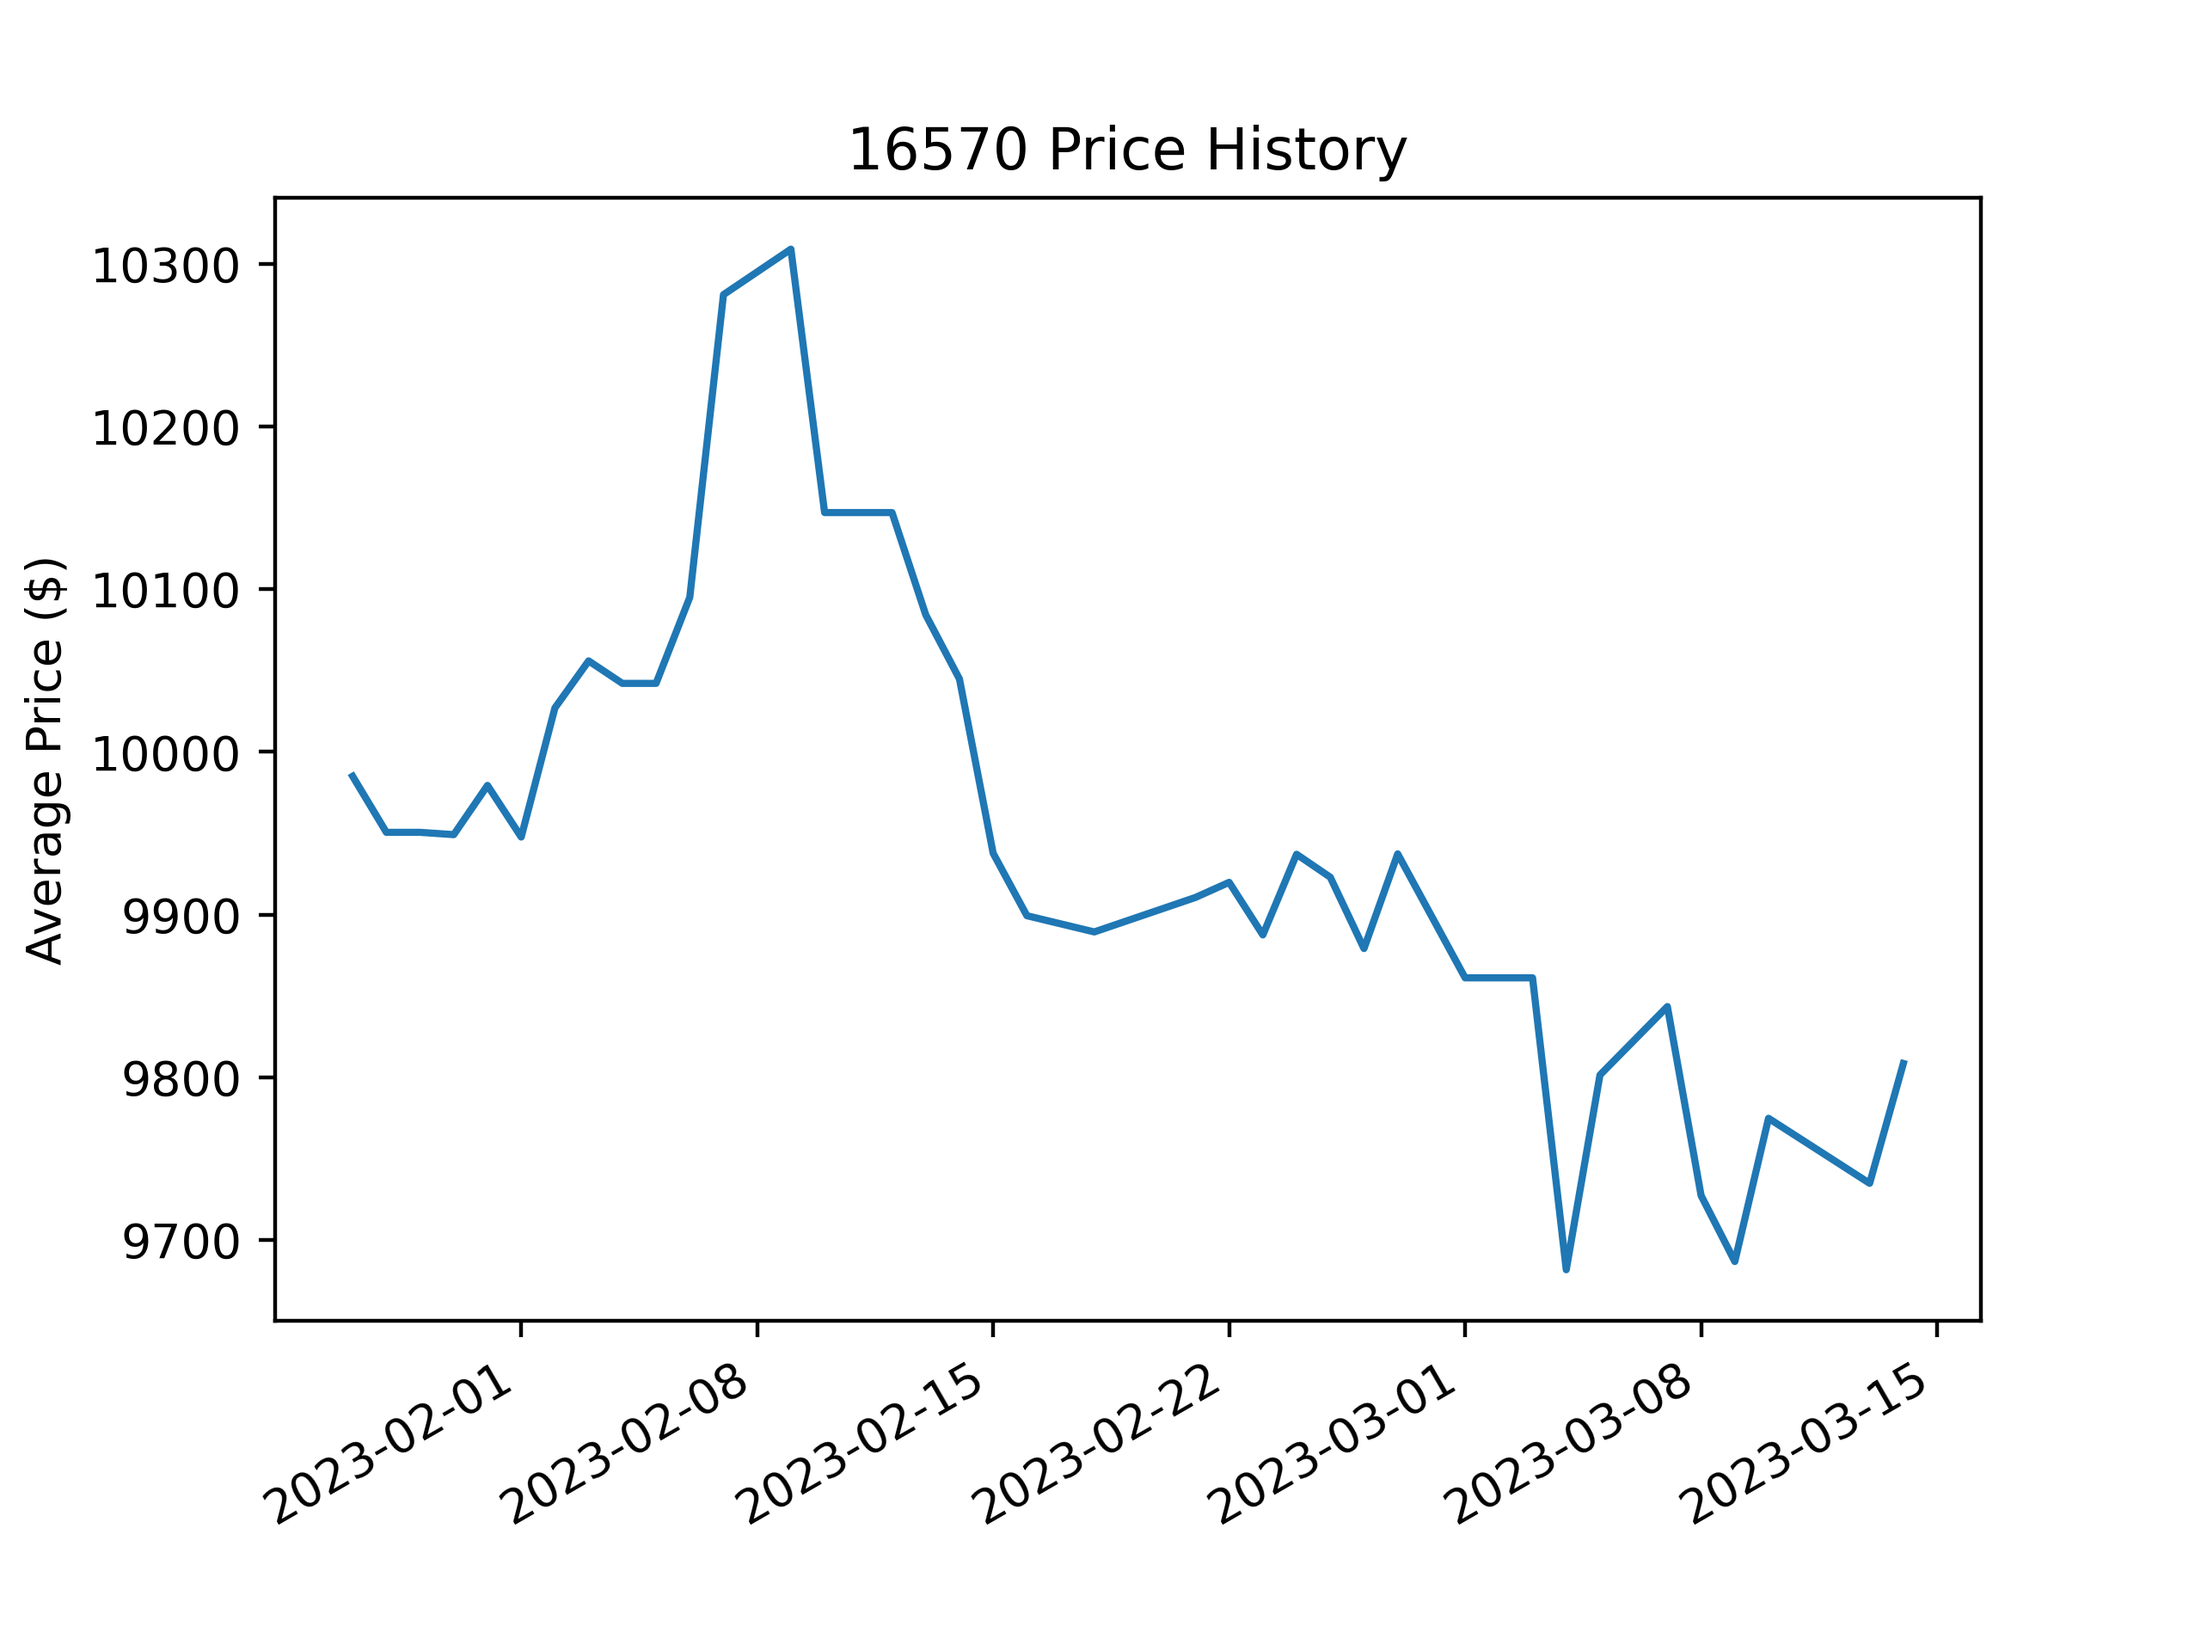
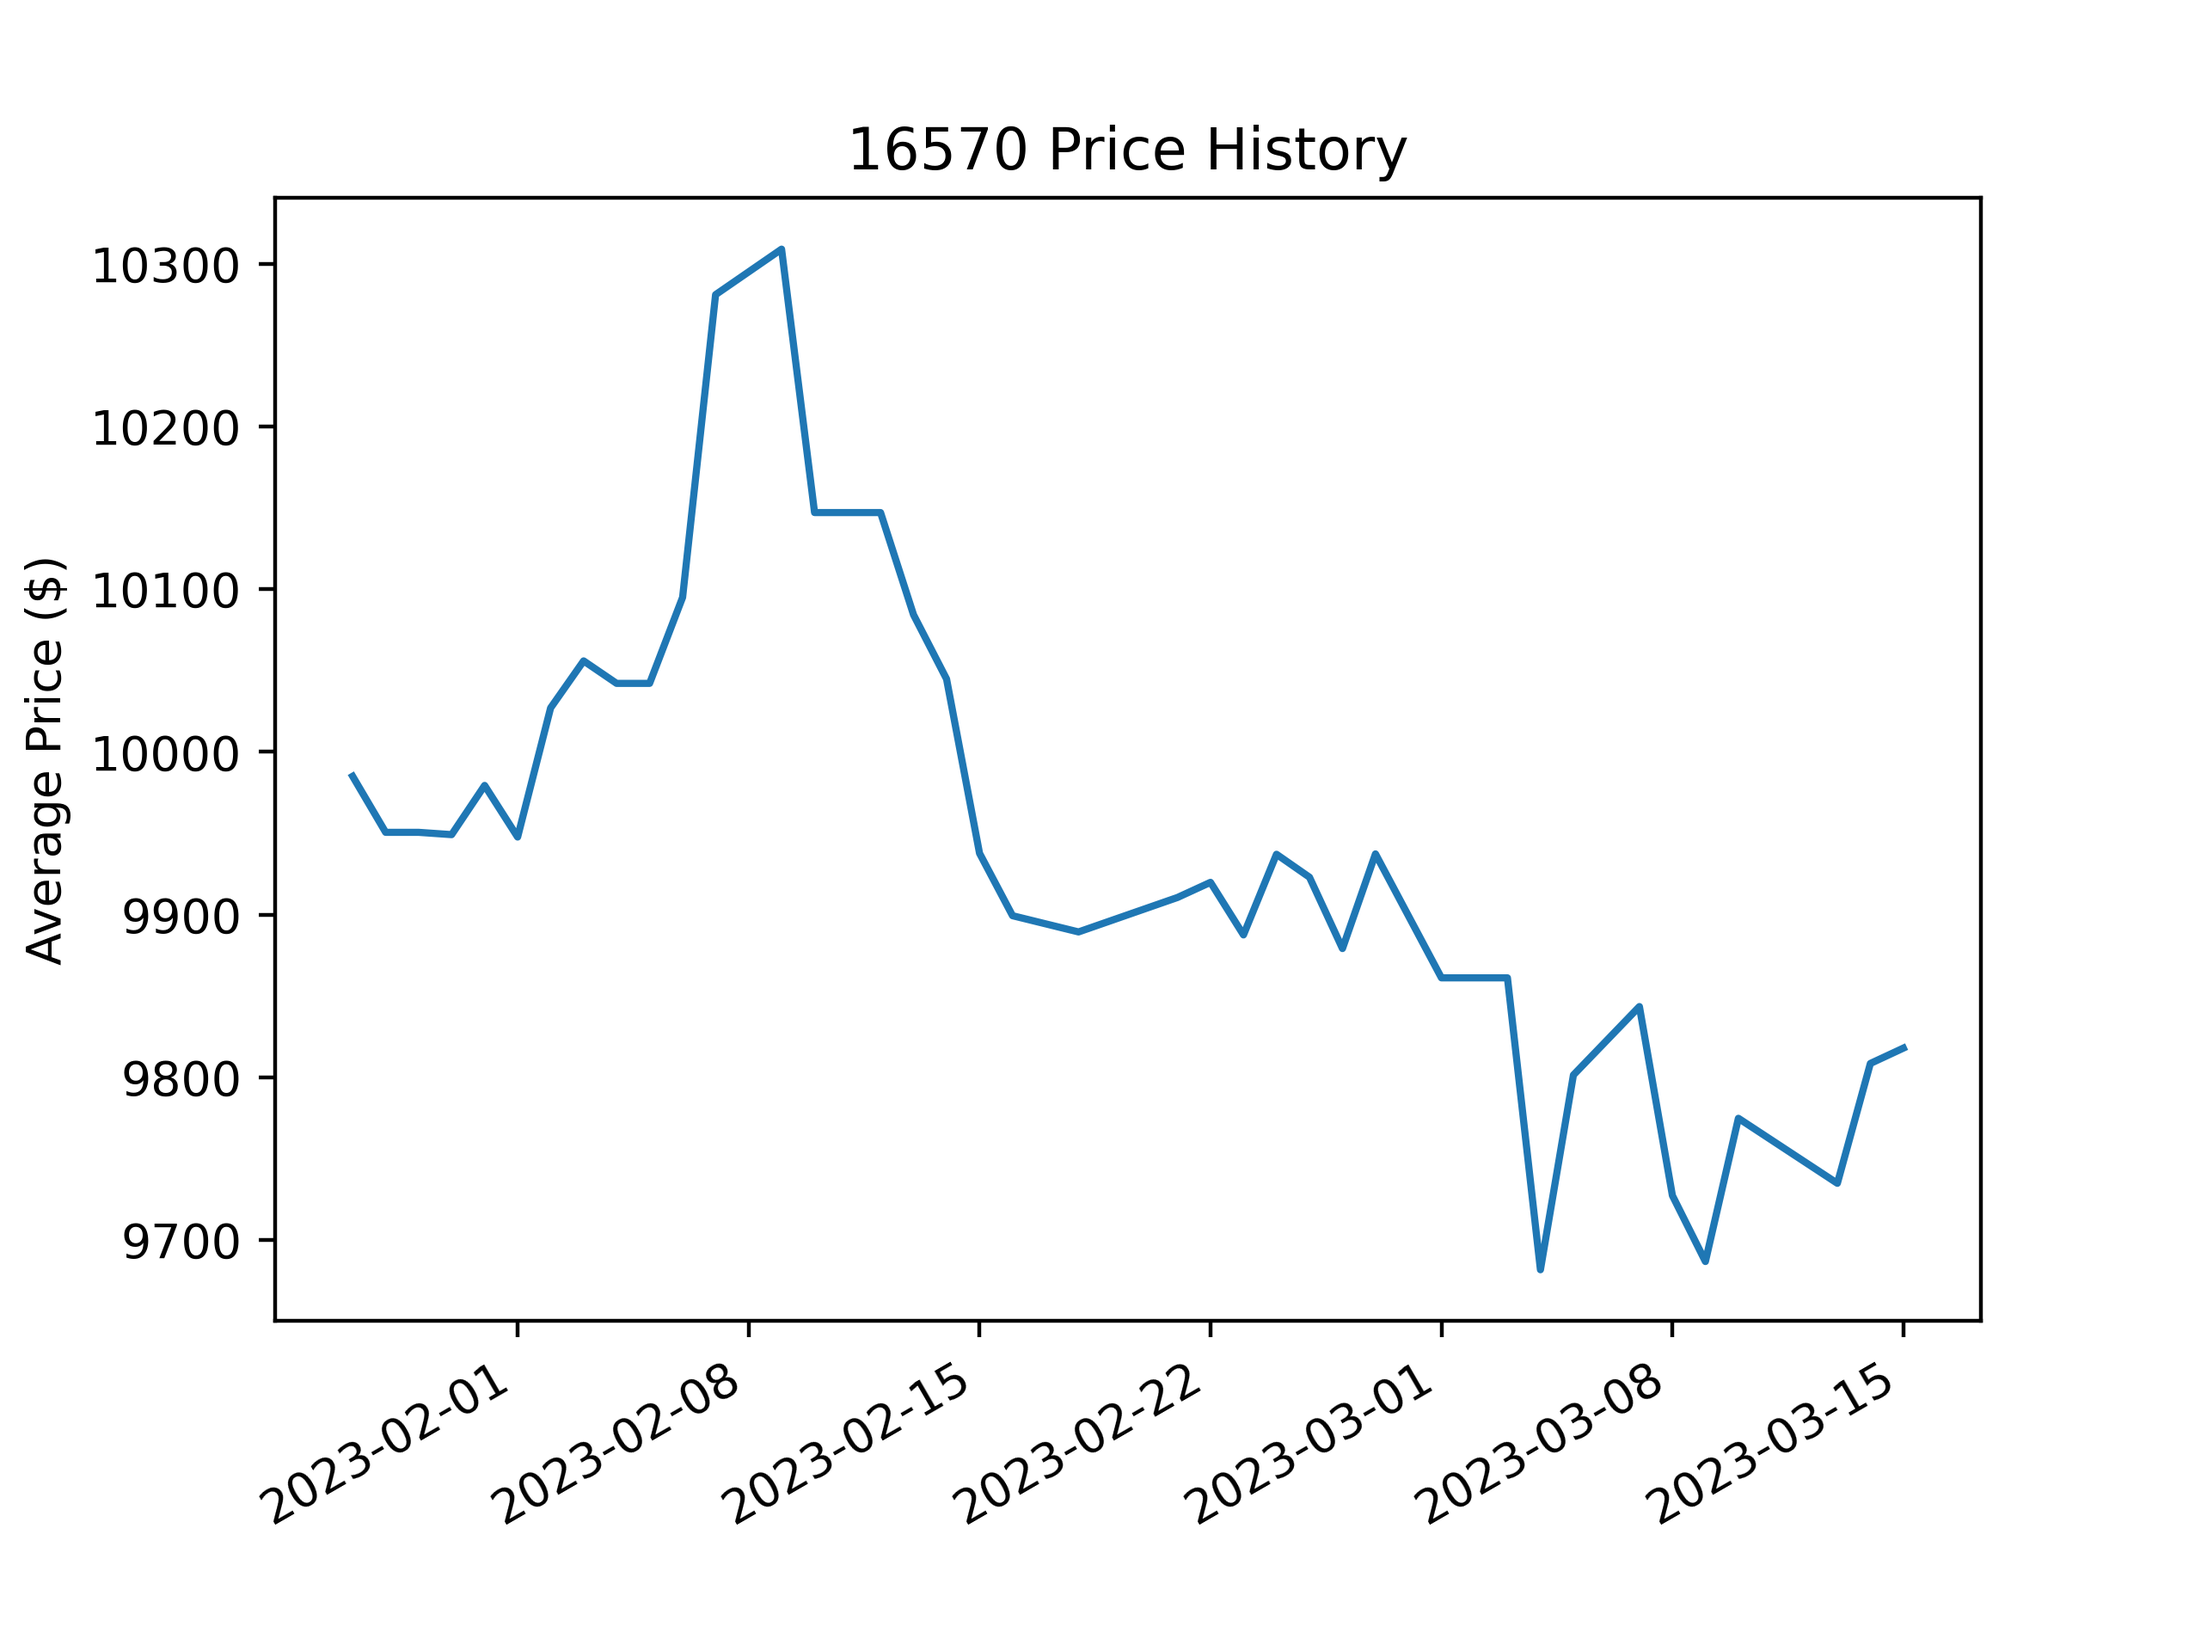
today's prices

diff --git a/all-prices/16570.html b/all-prices/16570.html
@@ -1,1 +1,1 @@
-<!DOCTYPE html><html><body><h1>All listings sorted in ascending order by price</h1><div> <a href="https://www.crownandcaliber.com/products/rolex-explorer-ii-16570-10-10-rol-s1rugm" target="_blank" rel="noopener noreferrer">$8275</a> </div><div> <a href="https://www.bobswatches.com//rolex-explorer-ii-16570-polar-dial.html" target="_blank" rel="noopener noreferrer">$8695</a> </div><div> <a href="https://www.watchfinder.com/Rolex/Explorer II/16570/1780/item/231123" target="_blank" rel="noopener noreferrer">$8900</a> </div><div> <a href="https://www.watchfinder.com/Rolex/Explorer II/16570/1780/item/230573" target="_blank" rel="noopener noreferrer">$8910</a> </div><div> <a href="https://www.thewatchbox.com/shop/4560504.html" target="_blank" rel="noopener noreferrer">$8950</a> </div><div> <a href="https://www.crownandcaliber.com/products/rolex-explorer-ii-16570-10-10-rol-t6d7yb" target="_blank" rel="noopener noreferrer">$9000</a> </div><div> <a href="https://www.crownandcaliber.com/products/rolex-explorer-ii-16570-10-10-rol-40mq2n" target="_blank" rel="noopener noreferrer">$9000</a> </div><div> <a href="https://www.watchfinder.com/Rolex/Explorer II/16570/1780/item/232242" target="_blank" rel="noopener noreferrer">$9050</a> </div><div> <a href="https://www.crownandcaliber.com/products/rolex-explorer-ii-16570-10-10-rol-rcg6ap" target="_blank" rel="noopener noreferrer">$9150</a> </div><div> <a href="https://www.thewatchbox.com/shop/4652947.html" target="_blank" rel="noopener noreferrer">$9450</a> </div><div> <a href="https://www.watchfinder.com/Rolex/Explorer II/16570/1780/item/241538" target="_blank" rel="noopener noreferrer">$9600</a> </div><div> <a href="https://aiswatches.com/rolex-polar-explorer-ii-16570-p-serial-white-dial-box-papers-rsc-serviced/" target="_blank" rel="noopener noreferrer">$9775.0</a> </div><div> <a href="https://aiswatches.com/rolex-polar-explorer-ii-16570-y-serial-white-dial-box-paper-1/" target="_blank" rel="noopener noreferrer">$9775.0</a> </div><div> <a href="https://www.watchfinder.com/Rolex/Explorer II/16570/1780/item/231382" target="_blank" rel="noopener noreferrer">$9830</a> </div><div> <a href="https://mandbwatches.com/product/rolex-explorer-ii-40mm-16570-stainless-steel-polar-white-dial-w-papers-unpolished/" target="_blank" rel="noopener noreferrer">$9950.0</a> </div><div> <a href="https://www.bobswatches.com//rolex-explorer-ii-polar-16570.html" target="_blank" rel="noopener noreferrer">$9995</a> </div><div> <a href="https://www.watchfinder.com/Rolex/Explorer II/16570/1780/item/233065" target="_blank" rel="noopener noreferrer">$10175</a> </div><div> <a href="https://www.watchfinder.com/Rolex/Explorer II/16570/1780/item/239520" target="_blank" rel="noopener noreferrer">$10660</a> </div><div> <a href="https://www.watchfinder.com/Rolex/Explorer II/16570/1780/item/235967" target="_blank" rel="noopener noreferrer">$10855</a> </div><div> <a href="https://aiswatches.com/rolex-polar-explorer-ii-16570-random-serial-white-dial-3186-movement-rsc-b-p/" target="_blank" rel="noopener noreferrer">$10975.0</a> </div><div> <a href="https://aiswatches.com/rolex-polar-explorer-ii-16570-v-serial-white-dial-3186-movement-box-papers/" target="_blank" rel="noopener noreferrer">$10975.0</a> </div><div> <a href="https://aiswatches.com/rolex-polar-explorer-ii-16570-m-serial-white-dial-3186-movement-box-papers/" target="_blank" rel="noopener noreferrer">$10975.0</a> </div><div> <a href="https://davidsw.com/shop/watch/rolex/rolex-16570-explorer-ii-with-white-dial-86/" target="_blank" rel="noopener noreferrer">$12675.0</a> </div></body></html>
+<!DOCTYPE html><html><body><h1>All listings sorted in ascending order by price</h1><div> <a href="https://www.crownandcaliber.com/products/rolex-explorer-ii-16570-10-10-rol-s1rugm" target="_blank" rel="noopener noreferrer">$8275</a> </div><div> <a href="https://www.watchfinder.com/Rolex/Explorer II/16570/1780/item/241358" target="_blank" rel="noopener noreferrer">$8625</a> </div><div> <a href="https://www.bobswatches.com//rolex-explorer-ii-16570-polar-dial.html" target="_blank" rel="noopener noreferrer">$8695</a> </div><div> <a href="https://www.watchfinder.com/Rolex/Explorer II/16570/1780/item/230573" target="_blank" rel="noopener noreferrer">$8910</a> </div><div> <a href="https://www.thewatchbox.com/shop/4560504.html" target="_blank" rel="noopener noreferrer">$8950</a> </div><div> <a href="https://www.crownandcaliber.com/products/rolex-explorer-ii-16570-10-10-rol-t6d7yb" target="_blank" rel="noopener noreferrer">$9000</a> </div><div> <a href="https://www.crownandcaliber.com/products/rolex-explorer-ii-16570-10-10-rol-40mq2n" target="_blank" rel="noopener noreferrer">$9000</a> </div><div> <a href="https://www.watchfinder.com/Rolex/Explorer II/16570/1780/item/232242" target="_blank" rel="noopener noreferrer">$9050</a> </div><div> <a href="https://www.crownandcaliber.com/products/rolex-explorer-ii-16570-10-10-rol-rcg6ap" target="_blank" rel="noopener noreferrer">$9150</a> </div><div> <a href="https://www.thewatchbox.com/shop/4652947.html" target="_blank" rel="noopener noreferrer">$9450</a> </div><div> <a href="https://www.watchfinder.com/Rolex/Explorer II/16570/1780/item/241538" target="_blank" rel="noopener noreferrer">$9600</a> </div><div> <a href="https://aiswatches.com/rolex-polar-explorer-ii-16570-p-serial-white-dial-box-papers-rsc-serviced/" target="_blank" rel="noopener noreferrer">$9775.0</a> </div><div> <a href="https://aiswatches.com/rolex-polar-explorer-ii-16570-y-serial-white-dial-box-paper-1/" target="_blank" rel="noopener noreferrer">$9775.0</a> </div><div> <a href="https://www.watchfinder.com/Rolex/Explorer II/16570/1780/item/231382" target="_blank" rel="noopener noreferrer">$9830</a> </div><div> <a href="https://mandbwatches.com/product/rolex-explorer-ii-40mm-16570-stainless-steel-polar-white-dial-w-papers-unpolished/" target="_blank" rel="noopener noreferrer">$9950.0</a> </div><div> <a href="https://www.bobswatches.com//rolex-explorer-ii-polar-16570.html" target="_blank" rel="noopener noreferrer">$9995</a> </div><div> <a href="https://www.watchfinder.com/Rolex/Explorer II/16570/1780/item/233065" target="_blank" rel="noopener noreferrer">$10175</a> </div><div> <a href="https://www.watchfinder.com/Rolex/Explorer II/16570/1780/item/233010" target="_blank" rel="noopener noreferrer">$10310</a> </div><div> <a href="https://www.watchfinder.com/Rolex/Explorer II/16570/1780/item/239520" target="_blank" rel="noopener noreferrer">$10660</a> </div><div> <a href="https://www.watchfinder.com/Rolex/Explorer II/16570/1780/item/235967" target="_blank" rel="noopener noreferrer">$10855</a> </div><div> <a href="https://aiswatches.com/rolex-polar-explorer-ii-16570-random-serial-white-dial-3186-movement-rsc-b-p/" target="_blank" rel="noopener noreferrer">$10975.0</a> </div><div> <a href="https://aiswatches.com/rolex-polar-explorer-ii-16570-v-serial-white-dial-3186-movement-box-papers/" target="_blank" rel="noopener noreferrer">$10975.0</a> </div><div> <a href="https://aiswatches.com/rolex-polar-explorer-ii-16570-m-serial-white-dial-3186-movement-box-papers/" target="_blank" rel="noopener noreferrer">$10975.0</a> </div><div> <a href="https://davidsw.com/shop/watch/rolex/rolex-16570-explorer-ii-with-white-dial-86/" target="_blank" rel="noopener noreferrer">$12675.0</a> </div></body></html>
